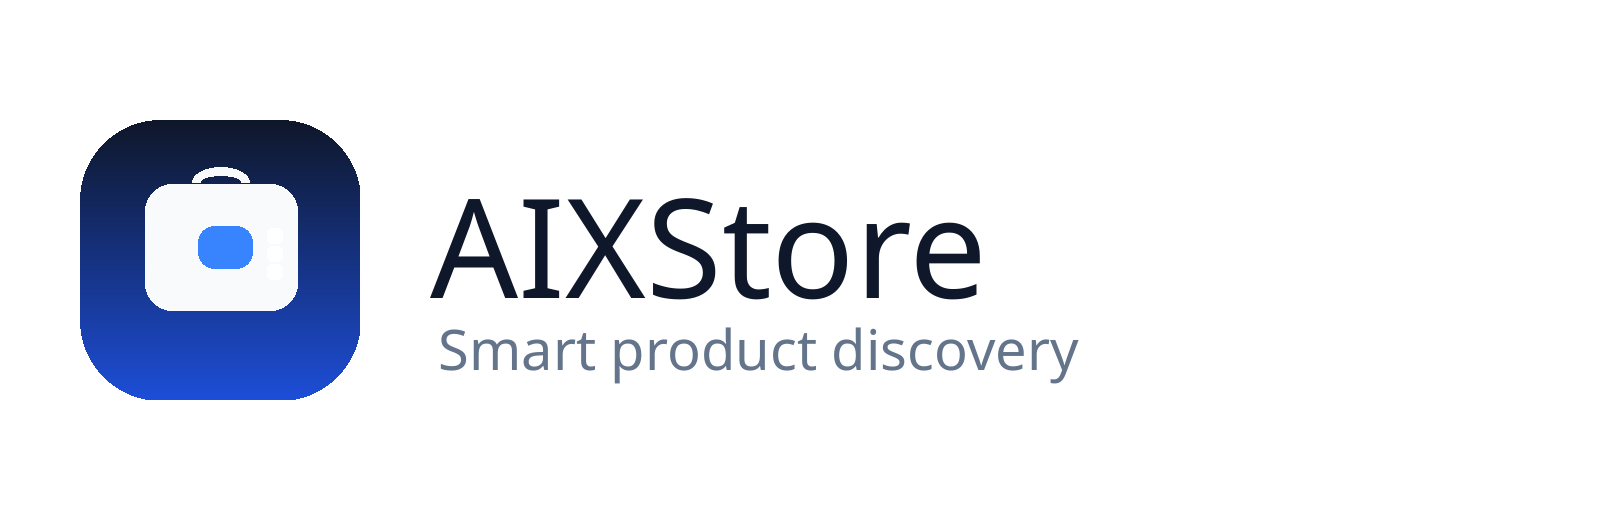
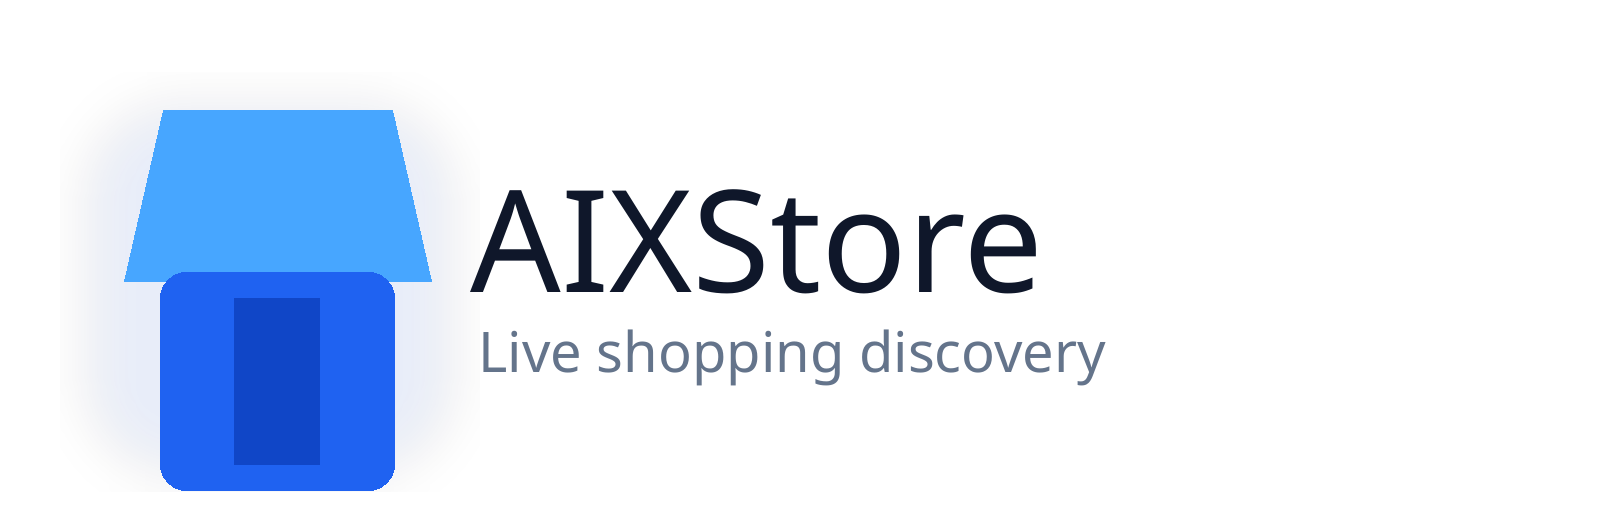
6788

Changed region(s): [[0.0312, 0.1846, 0.6875, 0.9538]]

diff --git a/apps/mobile/App.tsx b/apps/mobile/App.tsx
@@ -40,6 +40,7 @@ import { addFavorite, getFavorites, removeFavorite } from "./src/favorites/clien
 import type { FavoritesResponse } from "./src/favorites/client";
 import { getRecommendations } from "./src/recommendations/client";
 import type { RecommendationResponse } from "./src/recommendations/client";
+import { runtimeBaseUrl } from "./src/runtime/client";
 import { colors, spacing } from "./src/theme/tokens";
 
 type TabKey = "home" | "catalog" | "favorites" | "profile";
@@ -65,6 +66,16 @@ type CatalogContextState = {
 };
 
 const brandLogo = require("./assets/aix-store-brand.png");
+const CATEGORY_FALLBACK_QUERIES: Record<string, string> = {
+  electronics: "laptop",
+  food: "snacks",
+  fashion: "sneakers",
+  beauty: "skincare",
+  home: "air fryer",
+  toys: "lego",
+  sports: "dumbbells",
+  others: "storage organizer",
+};
 
 const defaultEnrichmentState: EnrichmentState = {
   state: "idle",
@@ -89,8 +100,38 @@ function uniqueProducts(products: Product[]) {
   });
 }
 
+function normalizeRuntimeAssetUrl(imageUrl: string | null | undefined) {
+  const value = (imageUrl || "").trim();
+  if (!value) {
+    return "";
+  }
+  const runtimeBase = runtimeBaseUrl().replace(/\/+$/, "");
+  const runtimeHttpBase = runtimeBase.replace(/^https:/, "http:");
+  if (value.startsWith(runtimeHttpBase)) {
+    return `${runtimeBase}${value.slice(runtimeHttpBase.length)}`;
+  }
+  return value;
+}
+
+function fallbackCategoryQuery(categoryId: string | null) {
+  if (!categoryId) {
+    return "";
+  }
+  return CATEGORY_FALLBACK_QUERIES[categoryId] || categoryId;
+}
+
 function imageGalleryForProduct(product: Product | ProductDetail | null | undefined) {
-  const gallery = product?.imageGallery?.filter((item) => item?.url) ?? [];
+  const gallery =
+    product?.imageGallery
+      ?.map((item) =>
+        item?.url
+          ? {
+              ...item,
+              url: normalizeRuntimeAssetUrl(item.url),
+            }
+          : item,
+      )
+      .filter((item) => item?.url) ?? [];
   if (gallery.length) {
     return gallery;
   }
@@ -100,7 +141,7 @@ function imageGalleryForProduct(product: Product | ProductDetail | null | undefi
   return [
     {
       id: `${product.id}:img:0`,
-      url: product.imageUrl,
+      url: normalizeRuntimeAssetUrl(product.imageUrl),
       altText: product.imageAltText,
       variantLabel: product.variantLabel ?? null,
     },
@@ -111,7 +152,7 @@ function productFromVariantSummary(
   baseProduct: Product,
   variant: ProductVariantSummary,
 ): Product {
-  const firstImage = variant.imageGallery[0]?.url || variant.imageUrl || baseProduct.imageUrl;
+  const firstImage = normalizeRuntimeAssetUrl(variant.imageGallery[0]?.url || variant.imageUrl || baseProduct.imageUrl);
   return {
     ...baseProduct,
     id: variant.productId,
@@ -395,12 +436,13 @@ function ProductImage({
   style: any;
 }) {
   const [failed, setFailed] = useState(false);
+  const resolvedImageUrl = normalizeRuntimeAssetUrl(imageUrl);
 
   useEffect(() => {
     setFailed(false);
-  }, [imageUrl]);
+  }, [resolvedImageUrl]);
 
-  if (!imageUrl || failed) {
+  if (!resolvedImageUrl || failed) {
     return (
       <View style={[style, styles.imageFallback]}>
         <Ionicons color={colors.textMuted} name="image-outline" size={22} />
@@ -414,7 +456,7 @@ function ProductImage({
       accessibilityLabel={imageAltText}
       onError={() => setFailed(true)}
       resizeMode="cover"
-      source={{ uri: imageUrl }}
+      source={{ uri: resolvedImageUrl }}
       style={style}
     />
   );
@@ -1909,6 +1951,56 @@ export default function App() {
       }
     } catch (error) {
       if (!(error instanceof Error) || error.name !== "AbortError") {
+        const fallbackQuery = !normalizedQuery ? fallbackCategoryQuery(categoryId) : "";
+        if (fallbackQuery) {
+          try {
+            const payload = await searchCatalog(fallbackQuery, {
+              categoryId,
+              page,
+              pageSize: catalogPageSize,
+              token: sessionToken,
+              signal: controller.signal,
+            });
+            if (requestIdsRef.current[area] !== requestId) {
+              return;
+            }
+            catalogCacheRef.current.set(key, payload);
+            mergeFavoriteIds([...payload.items, ...payload.offers]);
+            setCategories(payload.categories);
+            const baseItems = append
+              ? collectCatalogItemsFromCache(
+                  catalogCacheRef.current,
+                  expectedContextKey,
+                  page,
+                  catalogContexts[expectedContextKey]?.items ?? [],
+                )
+              : [];
+            const nextCatalogItems = append ? uniqueProducts([...baseItems, ...payload.items]) : payload.items;
+            setOfferProducts(pickOfferProducts(payload.offers, nextCatalogItems));
+            setCatalogContextState(expectedContextKey, (current) => ({
+              ...current,
+              contextKey: expectedContextKey,
+              contextType: "category",
+              query: null,
+              categoryId,
+              items: nextCatalogItems,
+              page: payload.page,
+              hasMore: payload.hasMore,
+              loadingInitial: false,
+              loadingMore: false,
+              error: null,
+              enrichment: {
+                ...(payload.enrichment || defaultEnrichmentState),
+                state: "error",
+                message: `Using fallback ${fallbackQuery} results while the live category feed recovers.`,
+              },
+              loadedPages: append ? Array.from(new Set([...current.loadedPages, payload.page])) : [payload.page],
+            }));
+            return;
+          } catch {
+            // Fall through to the generic live request error below.
+          }
+        }
         setCatalogContextState(expectedContextKey, (current) => ({
           ...current,
           loadingInitial: false,

diff --git a/services/scraper-python/app/jobs.py b/services/scraper-python/app/jobs.py
@@ -86,6 +86,26 @@ from .utils import (
 )
 
 
+def _decode_json_value(value: Any, default: Any):
+    if value in (None, ""):
+        return default
+    if isinstance(value, (dict, list)):
+        return value
+    if isinstance(value, (str, bytes, bytearray)):
+        try:
+            return json.loads(value)
+        except Exception:
+            return default
+    return default
+
+
+def _decode_string_list(value: Any) -> list[str]:
+    decoded = _decode_json_value(value, [])
+    if not isinstance(decoded, list):
+        return []
+    return [normalize_whitespace(str(item)) for item in decoded if normalize_whitespace(str(item))]
+
+
 class CatalogJobRunner:
     def __init__(self) -> None:
         self._provider_map = {
@@ -265,9 +285,8 @@ class CatalogJobRunner:
 
     def _load_cursor(self, metadata: dict[str, Any] | None, variants: list[str]) -> dict[str, Any]:
         raw_cursor = metadata.get("next_page_token_json") if metadata else None
-        try:
-            parsed = json.loads(raw_cursor) if raw_cursor else {}
-        except Exception:
+        parsed = _decode_json_value(raw_cursor, {}) if raw_cursor else {}
+        if not isinstance(parsed, dict):
             parsed = {}
         parsed_variants = parsed.get("variants") or []
         current_terms = [normalize_whitespace(str(item.get("term"))).lower() for item in parsed_variants if item.get("term")]
@@ -885,7 +904,7 @@ class CatalogJobRunner:
     ) -> dict[str, Any]:
         metadata = get_query_metadata(context_key) or {}
         stored_variants = metadata.get("query_variants_json")
-        if page == 1 and stored_variants and json.loads(stored_variants or "[]") != variants:
+        if page == 1 and stored_variants and _decode_string_list(stored_variants) != variants:
             clear_query_results(context_key)
             metadata = {}
 
@@ -1465,7 +1484,7 @@ class CatalogJobRunner:
         variants = self._category_variants(category_id)
         metadata = get_query_metadata(context_key) or {}
         stored_variants = metadata.get("query_variants_json")
-        if stored_variants and json.loads(stored_variants or "[]") != variants:
+        if stored_variants and _decode_string_list(stored_variants) != variants:
             clear_query_results(context_key)
             metadata = {}
         cursor = self._load_cursor(metadata, variants)
@@ -1560,7 +1579,7 @@ class CatalogJobRunner:
         }
         metadata = get_query_metadata(context_key) or {}
         stored_variants = metadata.get("query_variants_json")
-        if stored_variants and json.loads(stored_variants or "[]") != provider_variants:
+        if stored_variants and _decode_string_list(stored_variants) != provider_variants:
             clear_query_results(context_key)
             metadata = {}
         payload = list_query_products(context_key, page=page, page_size=page_size, user_id=user_id)
@@ -1860,7 +1879,7 @@ class CatalogJobRunner:
         seed_queries = build_related_seed_queries(product, base_related.get("items", []))
         metadata = get_query_metadata(related_context_key) or {}
         stored_variants = metadata.get("query_variants_json")
-        if stored_variants and json.loads(stored_variants or "[]") != seed_queries:
+        if stored_variants and _decode_string_list(stored_variants) != seed_queries:
             clear_query_results(related_context_key)
             metadata = {}
         cursor = self._load_cursor(metadata, seed_queries)